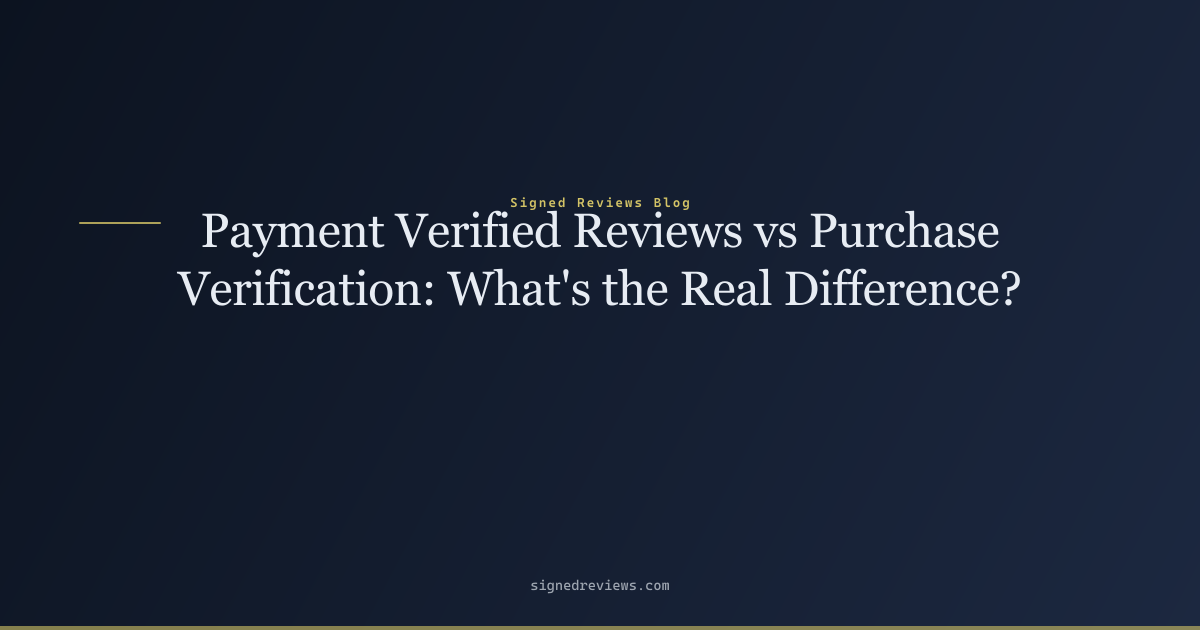
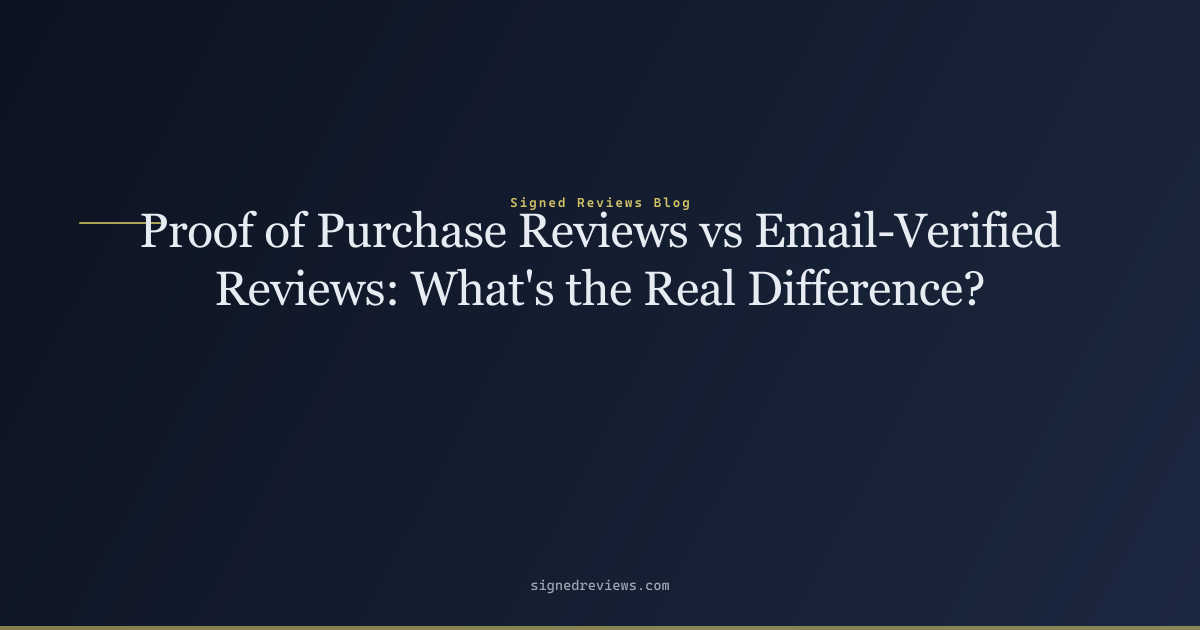
SEO: target proof of purchase reviews keyword
- Title: 'Proof of Purchase Reviews vs Email-Verified Reviews'
- Meta desc paragraph: includes exact keyword phrase
- H2: 'Proof of purchase reviews (processor-attested verification)'
- H3: 'Processor-attested proof of purchase reviews'
- Body: 8 natural occurrences of exact phrase
- Removed 'payment verified reviews' references

Changed region(s): [[0.1233, 0.3317, 0.8942, 0.3921], [0.1542, 0.4222, 0.8633, 0.4825]]

diff --git a/blog/purchase-verified-vs-email-verified-reviews/index.html b/blog/purchase-verified-vs-email-verified-reviews/index.html
@@ -3,21 +3,21 @@
 <head>
   <meta charset="UTF-8">
   <meta name="viewport" content="width=device-width, initial-scale=1.0">
-  <title>Payment Verified Reviews vs Purchase Verification: What's the Real Difference? — Signed Reviews Blog</title>
-  <meta name="description" content="Here's what each actually means, why payment verified reviews are structurally harder to fake than purchase-verified ones, and how to tell which kind you're loo">
+  <title>Proof of Purchase Reviews vs Email-Verified Reviews: What's the Real Difference? — Signed Reviews Blog</title>
+  <meta name="description" content="Here's what each actually means, why proof of purchase reviews are structurally harder to fake than email-verified ones, and how to tell which kind you're looki">
   <link rel="canonical" href="https://signedreviews.com/blog/purchase-verified-vs-email-verified-reviews/">
   <meta name="robots" content="index, follow">
   <meta name="theme-color" content="#0c1320">
 
   <meta property="og:type" content="website">
-  <meta property="og:title" content="Payment Verified Reviews vs Purchase Verification: What's the Real Difference? — Signed Reviews Blog">
-  <meta property="og:description" content="Here's what each actually means, why payment verified reviews are structurally harder to fake than purchase-verified ones, and how to tell which kind you're loo">
+  <meta property="og:title" content="Proof of Purchase Reviews vs Email-Verified Reviews: What's the Real Difference? — Signed Reviews Blog">
+  <meta property="og:description" content="Here's what each actually means, why proof of purchase reviews are structurally harder to fake than email-verified ones, and how to tell which kind you're looki">
   <meta property="og:url" content="https://signedreviews.com/blog/purchase-verified-vs-email-verified-reviews/">
   <meta property="og:site_name" content="Signed Reviews">
   <meta property="og:image" content="https://signedreviews.com/images/SignedReviews_full_logo.png">
   <meta name="twitter:card" content="summary_large_image">
-  <meta name="twitter:title" content="Payment Verified Reviews vs Purchase Verification: What's the Real Difference? — Signed Reviews Blog">
-  <meta name="twitter:description" content="Here's what each actually means, why payment verified reviews are structurally harder to fake than purchase-verified ones, and how to tell which kind you're loo">
+  <meta name="twitter:title" content="Proof of Purchase Reviews vs Email-Verified Reviews: What's the Real Difference? — Signed Reviews Blog">
+  <meta name="twitter:description" content="Here's what each actually means, why proof of purchase reviews are structurally harder to fake than email-verified ones, and how to tell which kind you're looki">
 
   <link rel="icon" href="/SignedReviews/favicon.svg" type="image/svg+xml">
   <link rel="icon" type="image/png" sizes="32x32" href="/SignedReviews/images/SignedReviews_logo_only.png">
@@ -483,7 +483,7 @@ main { padding: 0; }
     })();
   </script>
 
-  <script type="application/ld+json">{"@context":"https://schema.org","@type":"BlogPosting","headline":"Payment Verified Reviews vs Purchase Verification: What's the Real Difference?","description":"Here's what each actually means, why payment verified reviews are structurally harder to fake than purchase-verified ones, and how to tell which kind you're loo","datePublished":"2026-07-24 ·","author":{"@type":"Organization","name":"Signed Reviews"},"publisher":{"@type":"Organization","name":"Signed Reviews","logo":{"@type":"ImageObject","url":"https://signedreviews.com/images/SignedReviews_logo_only.png"}}}</script>
+  <script type="application/ld+json">{"@context":"https://schema.org","@type":"BlogPosting","headline":"Proof of Purchase Reviews vs Email-Verified Reviews: What's the Real Difference?","description":"Here's what each actually means, why proof of purchase reviews are structurally harder to fake than email-verified ones, and how to tell which kind you're looki","datePublished":"2026-07-24 ·","author":{"@type":"Organization","name":"Signed Reviews"},"publisher":{"@type":"Organization","name":"Signed Reviews","logo":{"@type":"ImageObject","url":"https://signedreviews.com/images/SignedReviews_logo_only.png"}}}</script>
 </head>
 <body>
   <a class="skip-link" href="#main">Skip to main content</a>
@@ -524,15 +524,15 @@ main { padding: 0; }
     <section class="page-hero">
       <div class="page-hero-inner">
         <span class="eyebrow">Blog</span>
-        <h1>Payment Verified Reviews vs Purchase Verification: What's the Real Difference?</h1>
-        <p>Here's what each actually means, why payment verified reviews are structurally harder to fake than purchase-verified ones, and how to tell which kind you're loo</p>
+        <h1>Proof of Purchase Reviews vs Email-Verified Reviews: What's the Real Difference?</h1>
+        <p>Here's what each actually means, why proof of purchase reviews are structurally harder to fake than email-verified ones, and how to tell which kind you're looki</p>
       </div>
     </section>
     <div class="prose-wrap">
       <article class="prose" style="max-width: var(--max-prose)">
       <p class="post-meta" style="color:var(--muted);font-size:.9rem;margin-bottom:1.5rem;">2026-07-24 ·</p>
-      <p>Two reviews. Both say &quot;Verified.&quot; One means the platform confirmed the reviewer&#39;s email address exists. The other means an independent payment processor confirmed the reviewer actually paid for the product — these are <strong>payment verified reviews</strong>, and they&#39;re structurally impossible to fake. They&#39;re not the same thing — but most review platforms use language that blurs the distinction.</p>
-<p>Here&#39;s what each actually means, why payment verified reviews are structurally harder to fake than purchase-verified ones, and how to tell which kind you&#39;re looking at.</p>
+      <p>Two reviews. Both say &quot;Verified.&quot; One means the platform confirmed the reviewer&#39;s email address exists. The other means an independent payment processor confirmed the reviewer actually paid for the product — these are <strong>proof of purchase reviews</strong>, and they&#39;re structurally impossible to fake. They&#39;re not the same thing — but most review platforms use language that blurs the distinction.</p>
+<p>Here&#39;s what each actually means, why proof of purchase reviews are structurally harder to fake than email-verified ones, and how to tell which kind you&#39;re looking at.</p>
 <hr>
 <h2 id="email-verified-reviews"><a class="anchor" href="#email-verified-reviews" aria-label="Permalink to Email-verified reviews">#</a> Email-verified reviews</h2>
 <p><strong>What it checks:</strong> The reviewer controls the email address they used to sign up.</p>
@@ -546,7 +546,7 @@ main { padding: 0; }
 <p><strong>Where you see it:</strong> Lower-friction platforms, some &quot;verified purchase&quot; tick-boxes that are self-attested, and platforms that don&#39;t integrate with commerce data at all.</p>
 <p><strong>The gap:</strong> Email verification proves the reviewer exists as an email address. It proves nothing about whether they were a customer. Anyone can create a Gmail account in 30 seconds, and email verification alone treats that account as equal to a long-time customer who spent $5,000.</p>
 <hr>
-<h2 id="purchase-verified-reviews-and-payment-verified-reviews"><a class="anchor" href="#purchase-verified-reviews-and-payment-verified-reviews" aria-label="Permalink to Purchase-verified reviews (and payment verified reviews)">#</a> Purchase-verified reviews (and payment verified reviews)</h2>
+<h2 id="proof-of-purchase-reviews-processor-attested-verification"><a class="anchor" href="#proof-of-purchase-reviews-processor-attested-verification" aria-label="Permalink to Proof of purchase reviews (processor-attested verification)">#</a> Proof of purchase reviews (processor-attested verification)</h2>
 <p><strong>What it checks:</strong> That a purchase actually occurred — but <strong>who confirms it</strong> is the critical variable.</p>
 <p>There are two kinds of purchase verification, and they sit at completely different levels on the verification spectrum:</p>
 <h3 id="level-3-merchant-supplied-purchase-verification"><a class="anchor" href="#level-3-merchant-supplied-purchase-verification" aria-label="Permalink to Level 3: Merchant-supplied purchase verification">#</a> Level 3: Merchant-supplied purchase verification</h3>
@@ -558,8 +558,8 @@ main { padding: 0; }
 <li>If yes → &quot;Verified Buyer&quot; badge</li>
 </ul>
 <p><strong>The gap:</strong> The merchant controls the data being verified against. A merchant could create a test order in their own store, write a review against it, and the platform would mark it &quot;Verified Buyer.&quot; Most merchants don&#39;t do this — but the system doesn&#39;t prevent it. The trust root is the merchant&#39;s data, and the merchant controls that data.</p>
-<h3 id="level-4-processor-attested-purchase-verification-payment-verified-reviews"><a class="anchor" href="#level-4-processor-attested-purchase-verification-payment-verified-reviews" aria-label="Permalink to Level 4: Processor-attested purchase verification (payment verified reviews)">#</a> Level 4: Processor-attested purchase verification (payment verified reviews)</h3>
-<p>This is what <strong>payment verified reviews</strong> actually means at its strongest: the review platform checks the reviewer against <strong>the payment processor&#39;s independent records</strong> — not the merchant&#39;s store data.</p>
+<h3 id="level-4-processor-attested-proof-of-purchase-reviews"><a class="anchor" href="#level-4-processor-attested-proof-of-purchase-reviews" aria-label="Permalink to Level 4: Processor-attested proof of purchase reviews">#</a> Level 4: Processor-attested proof of purchase reviews</h3>
+<p>This is what <strong>proof of purchase reviews</strong> actually means at its strongest: the review platform checks the reviewer against <strong>the payment processor&#39;s independent records</strong> — not the merchant&#39;s store data.</p>
 <p><strong>How it works:</strong></p>
 <ul>
 <li>The platform connects to the business&#39;s Stripe account via OAuth (read-only)</li>
@@ -624,7 +624,7 @@ main { padding: 0; }
 </ol>
 <hr>
 <h2 id="the-bottom-line"><a class="anchor" href="#the-bottom-line" aria-label="Permalink to The bottom line">#</a> The bottom line</h2>
-<p>&quot;Verified&quot; is a magic word in e-commerce — it increases trust, improves conversion, and signals credibility. But the word is doing too much work. It can mean &quot;has an email address,&quot; &quot;matched a merchant&#39;s order record,&quot; or &quot;independently confirmed by a payment processor&quot; — and consumers can&#39;t easily tell which.</p>
+<p>&quot;Verified&quot; is a magic word in e-commerce — it increases trust, improves conversion, and signals credibility. But the word is doing too much work. It can mean &quot;has an email address,&quot; &quot;matched a merchant&#39;s order record,&quot; or &quot;independently confirmed by a payment processor.&quot; Proof of purchase reviews sit at the top of this hierarchy — and consumers can&#39;t easily tell which kind they&#39;re looking at.</p>
 <p>As a business, the verification level you choose is a strategic decision about what kind of trust you want to build with your customers. Email-verified says &quot;we made it slightly harder to spam.&quot; Purchase-verified (merchant-supplied) says &quot;we checked our own records.&quot; Processor-attested says <strong>&quot;an independent party verified this — and we can&#39;t fake it.&quot;</strong></p>
 <p>The right choice depends on your business. But if you process payments through Stripe, you have access to the strongest verification level available — and your competitors probably aren&#39;t using it yet.</p>
 <p><strong>Further reading:</strong></p>

diff --git a/blog/index.html b/blog/index.html
@@ -576,9 +576,9 @@ main { padding: 0; }
       <p style="margin:0;color:var(--text);font-size:.95rem;">The three types of Stripe-compatible review tools</p>
     </div>
     <div style="margin-bottom:1.5rem;padding-bottom:1.5rem;border-bottom:1px solid var(--border);">
-      <h2 style="margin:0 0 .3rem;font-size:1.25rem;"><a href="/SignedReviews/blog/purchase-verified-vs-email-verified-reviews/" style="text-decoration:none;">Payment Verified Reviews vs Purchase Verification: What's the Real Difference?</a></h2>
+      <h2 style="margin:0 0 .3rem;font-size:1.25rem;"><a href="/SignedReviews/blog/purchase-verified-vs-email-verified-reviews/" style="text-decoration:none;">Proof of Purchase Reviews vs Email-Verified Reviews: What's the Real Difference?</a></h2>
       <p class="post-meta" style="color:var(--muted);font-size:.85rem;margin:0 0 .4rem;">2026-07-24 ·</p>
-      <p style="margin:0;color:var(--text);font-size:.95rem;">Here's what each actually means, why payment verified reviews are structurally harder to fake than purchase-verified ones, and how to tell which kind you're loo</p>
+      <p style="margin:0;color:var(--text);font-size:.95rem;">Here's what each actually means, why proof of purchase reviews are structurally harder to fake than email-verified ones, and how to tell which kind you're looki</p>
     </div>
     <div style="margin-bottom:1.5rem;padding-bottom:1.5rem;border-bottom:1px solid var(--border);">
       <h2 style="margin:0 0 .3rem;font-size:1.25rem;"><a href="/SignedReviews/blog/post-purchase-review-email-templates/" style="text-decoration:none;">Post-Purchase Review Email Templates That Actually Work</a></h2>

diff --git a/files/blog/purchase-verified-vs-email-verified-reviews.md b/files/blog/purchase-verified-vs-email-verified-reviews.md
@@ -1,12 +1,12 @@
-# Payment Verified Reviews vs Purchase Verification: What's the Real Difference?
+# Proof of Purchase Reviews vs Email-Verified Reviews: What's the Real Difference?
 
-**Published:** 2026-07-24 · **Author:** Signed Reviews Team · **Description:** Payment verified reviews are independently confirmed by a payment processor like Stripe — here's how they differ from purchase-verified and email-verified reviews, why it matters for trust, and how to tell which kind you're reading.**
+**Published:** 2026-07-24 · **Author:** Signed Reviews Team · **Description:** Proof of purchase reviews are structurally harder to fake than email-verified ones — here's what each actually means and how to tell which kind you're looking at.**
 
 ---
 
-Two reviews. Both say "Verified." One means the platform confirmed the reviewer's email address exists. The other means an independent payment processor confirmed the reviewer actually paid for the product — these are **payment verified reviews**, and they're structurally impossible to fake. They're not the same thing — but most review platforms use language that blurs the distinction.
+Two reviews. Both say "Verified." One means the platform confirmed the reviewer's email address exists. The other means an independent payment processor confirmed the reviewer actually paid for the product — these are **proof of purchase reviews**, and they're structurally impossible to fake. They're not the same thing — but most review platforms use language that blurs the distinction.
 
-Here's what each actually means, why payment verified reviews are structurally harder to fake than purchase-verified ones, and how to tell which kind you're looking at.
+Here's what each actually means, why proof of purchase reviews are structurally harder to fake than email-verified ones, and how to tell which kind you're looking at.
 
 ---
 
@@ -27,7 +27,7 @@ Here's what each actually means, why payment verified reviews are structurally h
 
 ---
 
-## Purchase-verified reviews (and payment verified reviews)
+## Proof of purchase reviews (processor-attested verification)
 
 **What it checks:** That a purchase actually occurred — but **who confirms it** is the critical variable.
 
@@ -44,9 +44,9 @@ The review platform checks the reviewer against **the merchant's own order or cu
 
 **The gap:** The merchant controls the data being verified against. A merchant could create a test order in their own store, write a review against it, and the platform would mark it "Verified Buyer." Most merchants don't do this — but the system doesn't prevent it. The trust root is the merchant's data, and the merchant controls that data.
 
-### Level 4: Processor-attested purchase verification (payment verified reviews)
+### Level 4: Processor-attested proof of purchase reviews
 
-This is what **payment verified reviews** actually means at its strongest: the review platform checks the reviewer against **the payment processor's independent records** — not the merchant's store data.
+This is what **proof of purchase reviews** actually means at its strongest: the review platform checks the reviewer against **the payment processor's independent records** — not the merchant's store data.
 
 **How it works:**
 - The platform connects to the business's Stripe account via OAuth (read-only)
@@ -95,7 +95,7 @@ When you see a "Verified" badge on a review, ask three questions:
 
 ## The bottom line
 
-"Verified" is a magic word in e-commerce — it increases trust, improves conversion, and signals credibility. But the word is doing too much work. It can mean "has an email address," "matched a merchant's order record," or "independently confirmed by a payment processor" — and consumers can't easily tell which.
+"Verified" is a magic word in e-commerce — it increases trust, improves conversion, and signals credibility. But the word is doing too much work. It can mean "has an email address," "matched a merchant's order record," or "independently confirmed by a payment processor." Proof of purchase reviews sit at the top of this hierarchy — and consumers can't easily tell which kind they're looking at.
 
 As a business, the verification level you choose is a strategic decision about what kind of trust you want to build with your customers. Email-verified says "we made it slightly harder to spam." Purchase-verified (merchant-supplied) says "we checked our own records." Processor-attested says **"an independent party verified this — and we can't fake it."**
 
